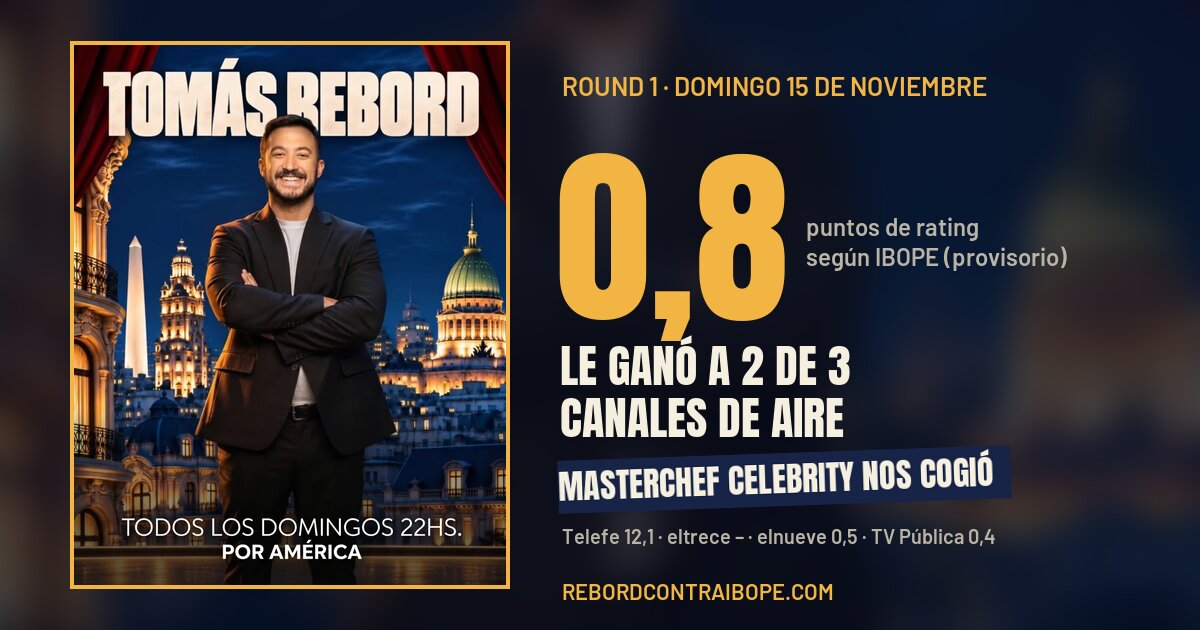
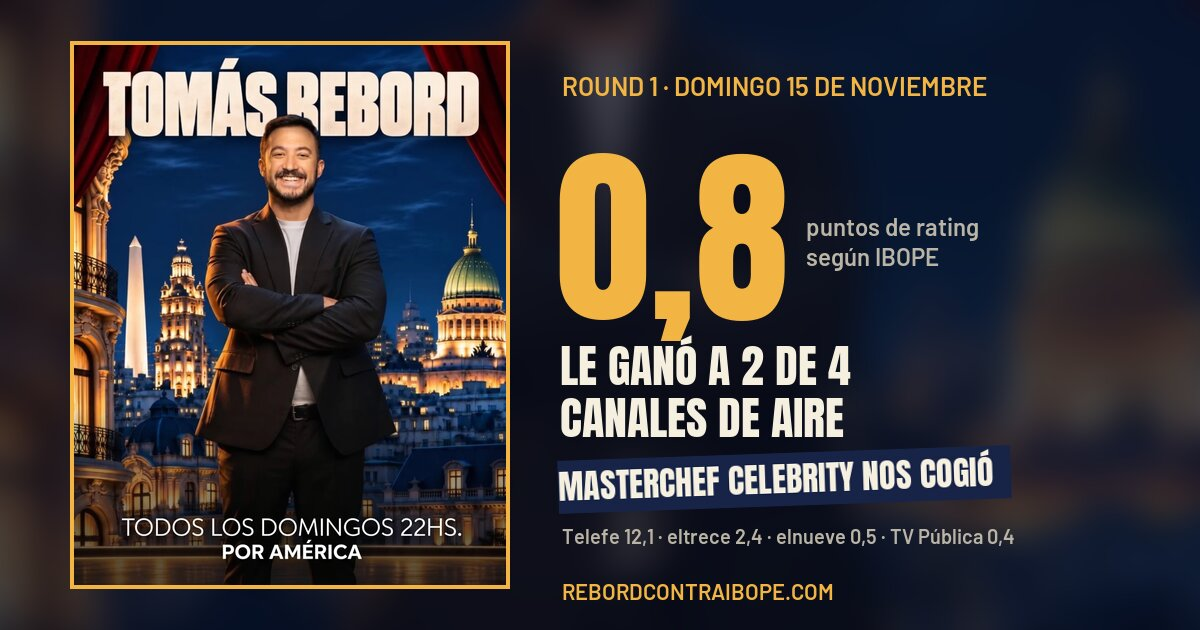
rating: actualización automática

Changed region(s): [[0.6167, 0.8143, 0.8633, 0.8746], [0.7708, 0.3921, 0.8942, 0.4222], [0.6783, 0.5429, 0.7092, 0.6032]]

diff --git a/index.html b/index.html
@@ -17,7 +17,7 @@
 <meta property="og:image" content="https://rebordcontraibope.com/assets/placas/round-1.jpg">
 <meta property="og:image:width" content="1200">
 <meta property="og:image:height" content="630">
-<meta property="og:image:alt" content="Round 1: Dominbord hizo 0,8 puntos de rating según IBOPE. Le ganó a 2 de 3 canales de aire.">
+<meta property="og:image:alt" content="Round 1: Dominbord hizo 0,8 puntos de rating según IBOPE. Le ganó a 2 de 4 canales de aire.">
 <meta name="twitter:card" content="summary_large_image">
 <meta name="twitter:title" content="Rating de Dominbord según IBOPE · Rebord contra Ibope">
 <meta name="twitter:description" content="Cuánto midió el programa de Tomás Rebord cada domingo y si le ganó a los canales de aire.">
